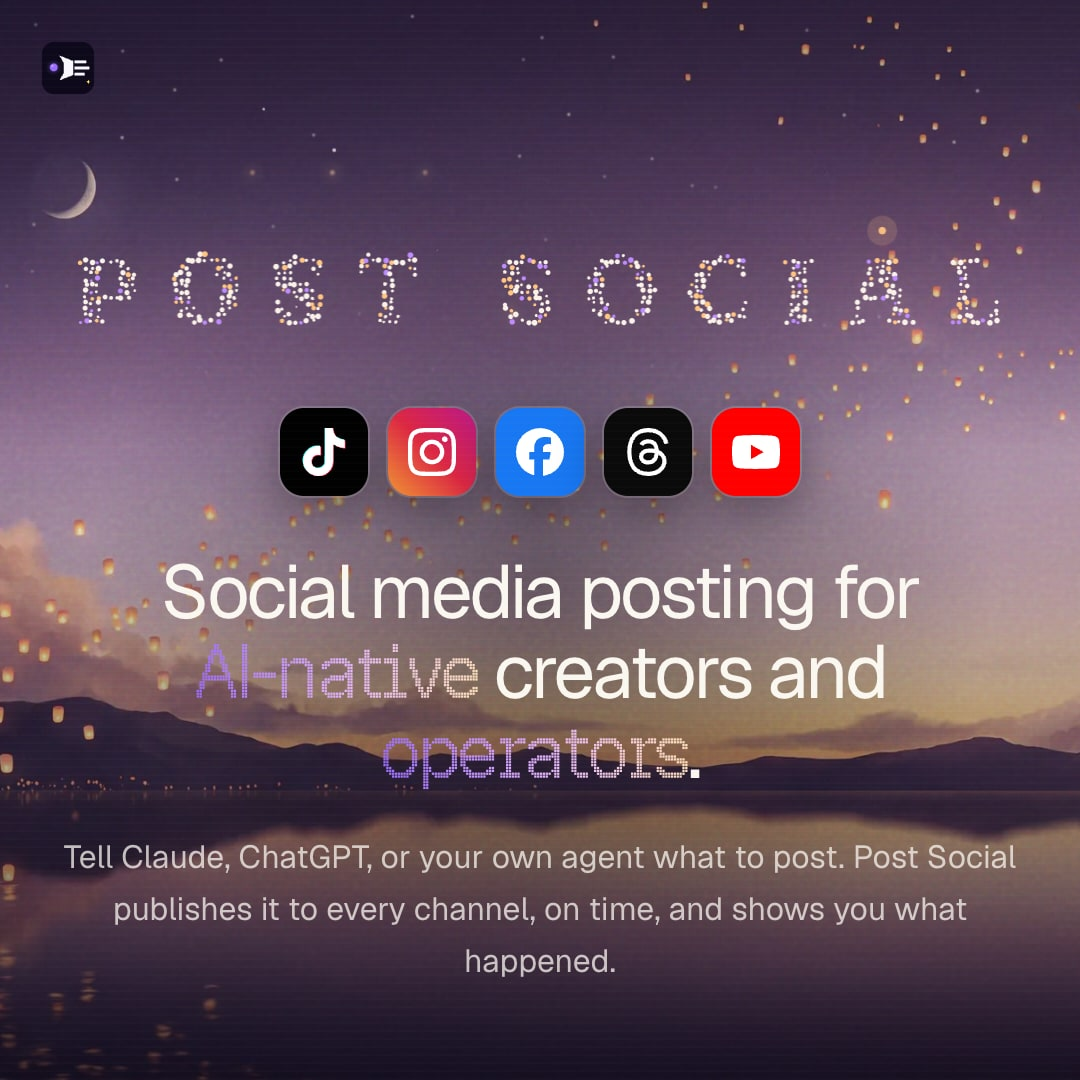
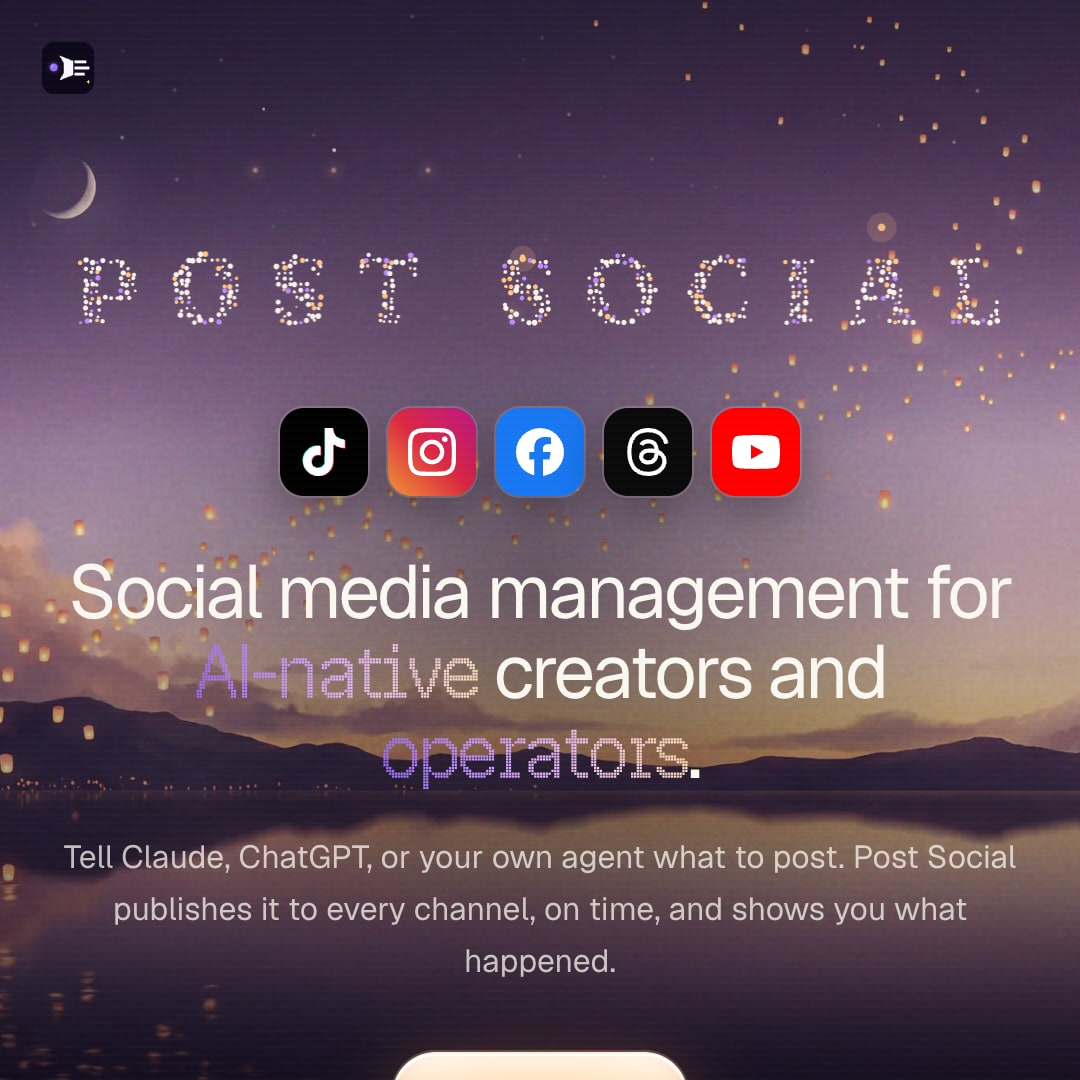
Phase 7: "management" headline, Lantern button, wording
- Headline: "Social media management for AI-native creators and operators".
- "Works with Claude, ChatGPT or any AI agent".
- Waitlist buttons use a new warm "lantern" style instead of the plum
  button shared with Manor; no arrow.
- Share images refreshed.

diff --git a/src/app/page.tsx b/src/app/page.tsx
@@ -33,7 +33,7 @@ const NAV = [
 const FAQ = [
   { q: "Which platforms are supported?", a: "TikTok, Instagram, Facebook Pages, Threads and YouTube, each through the platform's official API and sign-in. LinkedIn, Bluesky and X are next." },
   { q: "What can I publish?", a: "Videos and photo posts on TikTok; photos, Reels and carousels on Instagram; text, links, photos, Reels and videos on Facebook Pages; text, photos, videos and carousels on Threads; and Shorts on YouTube. What a given account can post depends on its type and the platform's rules, and Post Social checks each file before it goes out." },
-  { q: "Can an AI publish for me?", a: "Yes. Connect Claude, ChatGPT, or any app that speaks MCP, or call the API from your own automations. Your AI drafts, schedules and publishes exactly as you direct it. TikTok posts from an AI land in your TikTok inbox for you to finish." },
+  { q: "Can an AI publish for me?", a: "Yes. Connect Claude, ChatGPT, or any AI agent, or call the API from your own automations. Your AI drafts, schedules and publishes exactly as you direct it. TikTok posts from an AI land in your TikTok inbox for you to finish." },
   { q: "Can I schedule posts?", a: "Yes. Publish now or pick a date and time, then see everything on the calendar and move it if plans change." },
   { q: "Do you need my social passwords?", a: "No. Each account connects through the platform's own sign-in page, and you can disconnect it at any time." },
   { q: "Is Post Social only for developers?", a: "No. If you can ask an AI for something in plain language, you can use Post Social. The web app does everything too, no code required." },
@@ -138,7 +138,7 @@ export default function LandingPage() {
           </ul>
 
           <h1 className="lp-rise mt-7 max-w-4xl text-[2.35rem] leading-[1.06] tracking-[-0.04em] sm:text-6xl">
-            Social media posting for <span className="lp-display lp-ink whitespace-nowrap">AI-native</span> creators and <span className="lp-display lp-ink">operators</span>.
+            Social media management for <span className="lp-display lp-ink whitespace-nowrap">AI-native</span> creators and <span className="lp-display lp-ink">operators</span>.
           </h1>
           <p className="lp-rise lp-rise-delay-1 mt-5 max-w-2xl text-base leading-relaxed text-[#FAF6F0]/75 sm:text-lg">
             Tell Claude, ChatGPT, or your own agent what to post. Post Social publishes it to every channel, on time, and shows you what happened.
@@ -152,7 +152,7 @@ export default function LandingPage() {
           <p className="mt-6 inline-flex items-center gap-2 text-[13px] text-[#FAF6F0]/55">
             <AiMark app="claude" size={14} />
             <AiMark app="openai" size={14} />
-            Works with Claude, ChatGPT, and any app that speaks MCP
+            Works with Claude, ChatGPT or any AI agent
           </p>
 
           <Screen src="/landing/app-home.webp" alt="The Post Social home screen: what's going out next, what just went live, and what needs you" priority className="mt-16 w-full max-w-5xl sm:mt-20" />
@@ -365,7 +365,7 @@ export default function LandingPage() {
               <img src="/post-social-icon.svg" alt="" className="size-6 rounded-[7px]" />
               <span className="lp-wordmark text-[12px]">Post Social</span>
             </div>
-            <p className="mt-3 max-w-xs text-sm text-[#FAF6F0]/45">Social media posting for AI-native creators and operators.</p>
+            <p className="mt-3 max-w-xs text-sm text-[#FAF6F0]/45">Social media management for AI-native creators and operators.</p>
           </div>
           <nav aria-label="Legal" className="flex flex-wrap gap-6 text-sm text-[#FAF6F0]/55">
             <Link href="/docs" className="hover:text-[#FAF6F0]">Docs</Link>

diff --git a/src/components/landing/waitlist.tsx b/src/components/landing/waitlist.tsx
@@ -4,13 +4,13 @@ import { useActionState, useEffect, useRef, useState } from "react";
 import { createPortal } from "react-dom";
 import { joinWaitlist, type WaitlistResult } from "@/app/waitlist-action";
 
-// "Join the waitlist" buttons and the glass panel they open. `lumen` is the glowing main
+// "Join the waitlist" buttons and the glass panel they open. `lantern` is the glowing main
 // button, `glass` a quieter one, `compact` the small one in the header.
-export function Waitlist({ label = "Join the waitlist", variant = "lumen" }: { label?: string; variant?: "lumen" | "glass" | "compact" }) {
+export function Waitlist({ label = "Join the waitlist", variant = "lantern" }: { label?: string; variant?: "lantern" | "glass" | "compact" }) {
   const [open, setOpen] = useState(false);
   const button =
     variant === "compact" ? (
-      <button type="button" onClick={() => setOpen(true)} className="lp-lumen inline-flex rounded-full px-4 py-1.5 text-[12px] text-[#FFF8F0]">
+      <button type="button" onClick={() => setOpen(true)} className="lp-lantern inline-flex rounded-full px-4 py-1.5 text-[12px]">
         {label}
       </button>
     ) : variant === "glass" ? (
@@ -18,12 +18,7 @@ export function Waitlist({ label = "Join the waitlist", variant = "lumen" }: { l
         {label}
       </button>
     ) : (
-      <button type="button" onClick={() => setOpen(true)} className="lp-lumen inline-flex h-11 items-center gap-2.5 rounded-full pl-2.5 pr-5 text-sm text-[#FFF8F0]">
-        <span aria-hidden="true" className="grid size-6 place-items-center rounded-full bg-white/90">
-          <svg viewBox="0 0 16 16" className="size-3.5 text-[#2a1247]" fill="none" stroke="currentColor" strokeWidth="1.8" strokeLinecap="round" strokeLinejoin="round">
-            <path d="M8 13V3M3.5 7.5 8 3l4.5 4.5" />
-          </svg>
-        </span>
+      <button type="button" onClick={() => setOpen(true)} className="lp-lantern inline-flex h-11 items-center rounded-full px-5 text-sm">
         {label}
       </button>
     );
@@ -94,7 +89,7 @@ function WaitlistDialog({ onClose }: { onClose: () => void }) {
               />
               {/* Hidden from people; bots that fill it are quietly ignored. */}
               <input type="text" name="company" tabIndex={-1} autoComplete="off" aria-hidden="true" className="hidden" />
-              <button type="submit" disabled={pending} className="lp-lumen h-11 rounded-full px-5 text-sm text-[#FFF8F0] disabled:opacity-70">
+              <button type="submit" disabled={pending} className="lp-lantern h-11 rounded-full px-5 text-sm disabled:opacity-70">
                 {pending ? "Joining…" : "Join"}
               </button>
             </div>

diff --git a/src/app/globals.css b/src/app/globals.css
@@ -281,31 +281,6 @@ body::after {
   }
 }
 
-/* Lumen CTA: a plum pill lit from below like a lantern. */
-.lp-lumen {
-  background: linear-gradient(180deg, #2a1247 0%, #4c1d95 24%, #7c3aed 50%, #9b5cf0 70%, #d29bd8 90%, #ffd2a6 100%);
-  border: 1px solid rgba(255, 214, 180, 0.35);
-  box-shadow:
-    inset 0 1px 0 rgba(255, 255, 255, 0.35),
-    inset 0 -1px 0 rgba(0, 0, 0, 0.35),
-    0 10px 30px rgba(147, 51, 234, 0.35),
-    0 0 40px rgba(255, 170, 100, 0.18);
-  text-shadow: 0 1px 0 rgba(0, 0, 0, 0.35);
-  transition:
-    transform 0.18s ease,
-    box-shadow 0.18s ease,
-    filter 0.18s ease;
-}
-.lp-lumen:hover:not(:disabled) {
-  transform: translateY(-1px);
-  filter: brightness(1.08);
-  box-shadow:
-    inset 0 1px 0 rgba(255, 255, 255, 0.4),
-    inset 0 -1px 0 rgba(0, 0, 0, 0.35),
-    0 14px 38px rgba(168, 85, 247, 0.5),
-    0 0 56px rgba(255, 170, 100, 0.28);
-}
-
 @media (prefers-reduced-motion: reduce) {
   .lp-rise,
   .lp-veil {
@@ -354,4 +329,47 @@ body::after {
     0 0 0 1px rgba(255, 255, 255, 0.06),
     0 40px 100px -20px rgba(0, 0, 0, 0.7),
     0 0 80px -20px rgba(255, 170, 100, 0.25);
+}
+
+/* ===== The call to action ===== */
+
+/* Lantern: warm paper lit from within, the brightest thing on the page. */
+.lp-lantern {
+  color: #2a1247;
+  font-weight: 500;
+  background: radial-gradient(130% 150% at 50% 115%, #ffae5e 0%, #ffd6a3 38%, #fff6ea 78%);
+  border: 1px solid rgba(255, 255, 255, 0.7);
+  box-shadow:
+    inset 0 1px 0 #fff,
+    inset 0 -8px 16px rgba(255, 130, 50, 0.28),
+    0 0 0 1px rgba(255, 200, 140, 0.25),
+    0 10px 40px rgba(255, 160, 80, 0.45);
+  animation: lp-glow 3.2s ease-in-out infinite alternate;
+  transition: transform 0.2s ease, filter 0.2s ease;
+}
+.lp-lantern:hover {
+  transform: translateY(-1px);
+  filter: brightness(1.04);
+}
+@keyframes lp-glow {
+  from {
+    box-shadow:
+      inset 0 1px 0 #fff,
+      inset 0 -8px 16px rgba(255, 130, 50, 0.28),
+      0 0 0 1px rgba(255, 200, 140, 0.25),
+      0 10px 36px rgba(255, 160, 80, 0.38);
+  }
+  to {
+    box-shadow:
+      inset 0 1px 0 #fff,
+      inset 0 -8px 16px rgba(255, 130, 50, 0.34),
+      0 0 0 1px rgba(255, 200, 140, 0.35),
+      0 12px 52px rgba(255, 160, 80, 0.6);
+  }
+}
+
+@media (prefers-reduced-motion: reduce) {
+  .lp-lantern {
+    animation: none;
+  }
 }

diff --git a/src/app/page.test.tsx b/src/app/page.test.tsx
@@ -17,7 +17,7 @@ vi.mock("./waitlist-action", () => ({ joinWaitlist: vi.fn(async () => ({ ok: tru
 describe("LandingPage", () => {
   it("keeps the headline, with the two words set in the display face", () => {
     render(<LandingPage />);
-    const h1 = screen.getByRole("heading", { level: 1, name: /Social media posting for AI-native creators and operators/i });
+    const h1 = screen.getByRole("heading", { level: 1, name: /Social media management for AI-native creators and operators/i });
     expect(within(h1).getByText("AI-native")).toHaveClass("lp-display");
     expect(within(h1).getByText("operators")).toHaveClass("lp-display");
   });

diff --git a/src/app/layout.tsx b/src/app/layout.tsx
@@ -4,7 +4,7 @@ import "./globals.css";
 import { ConvexClientProvider } from "@/components/convex-client-provider";
 import { EnvironmentBadge } from "@/components/environment-badge";
 
-const title = "Post Social — Social media posting for AI-native creators and operators";
+const title = "Post Social — Social media management for AI-native creators and operators";
 const description = "Tell Claude, ChatGPT, or your own agent what to post. Post Social publishes it to TikTok, Instagram, Facebook, Threads and YouTube.";
 
 export const metadata: Metadata = {

diff --git a/src/app/fonts.ts b/src/app/fonts.ts
@@ -6,3 +6,4 @@ export { GeistPixelGrid } from "geist/font/pixel";
 
 // The landing's wordmark face (wide-tracked serif, like the Manor lockup).
 export const Fraunces = FrauncesFont({ subsets: ["latin"], weight: ["500", "600"], variable: "--font-fraunces", display: "swap" });
+
